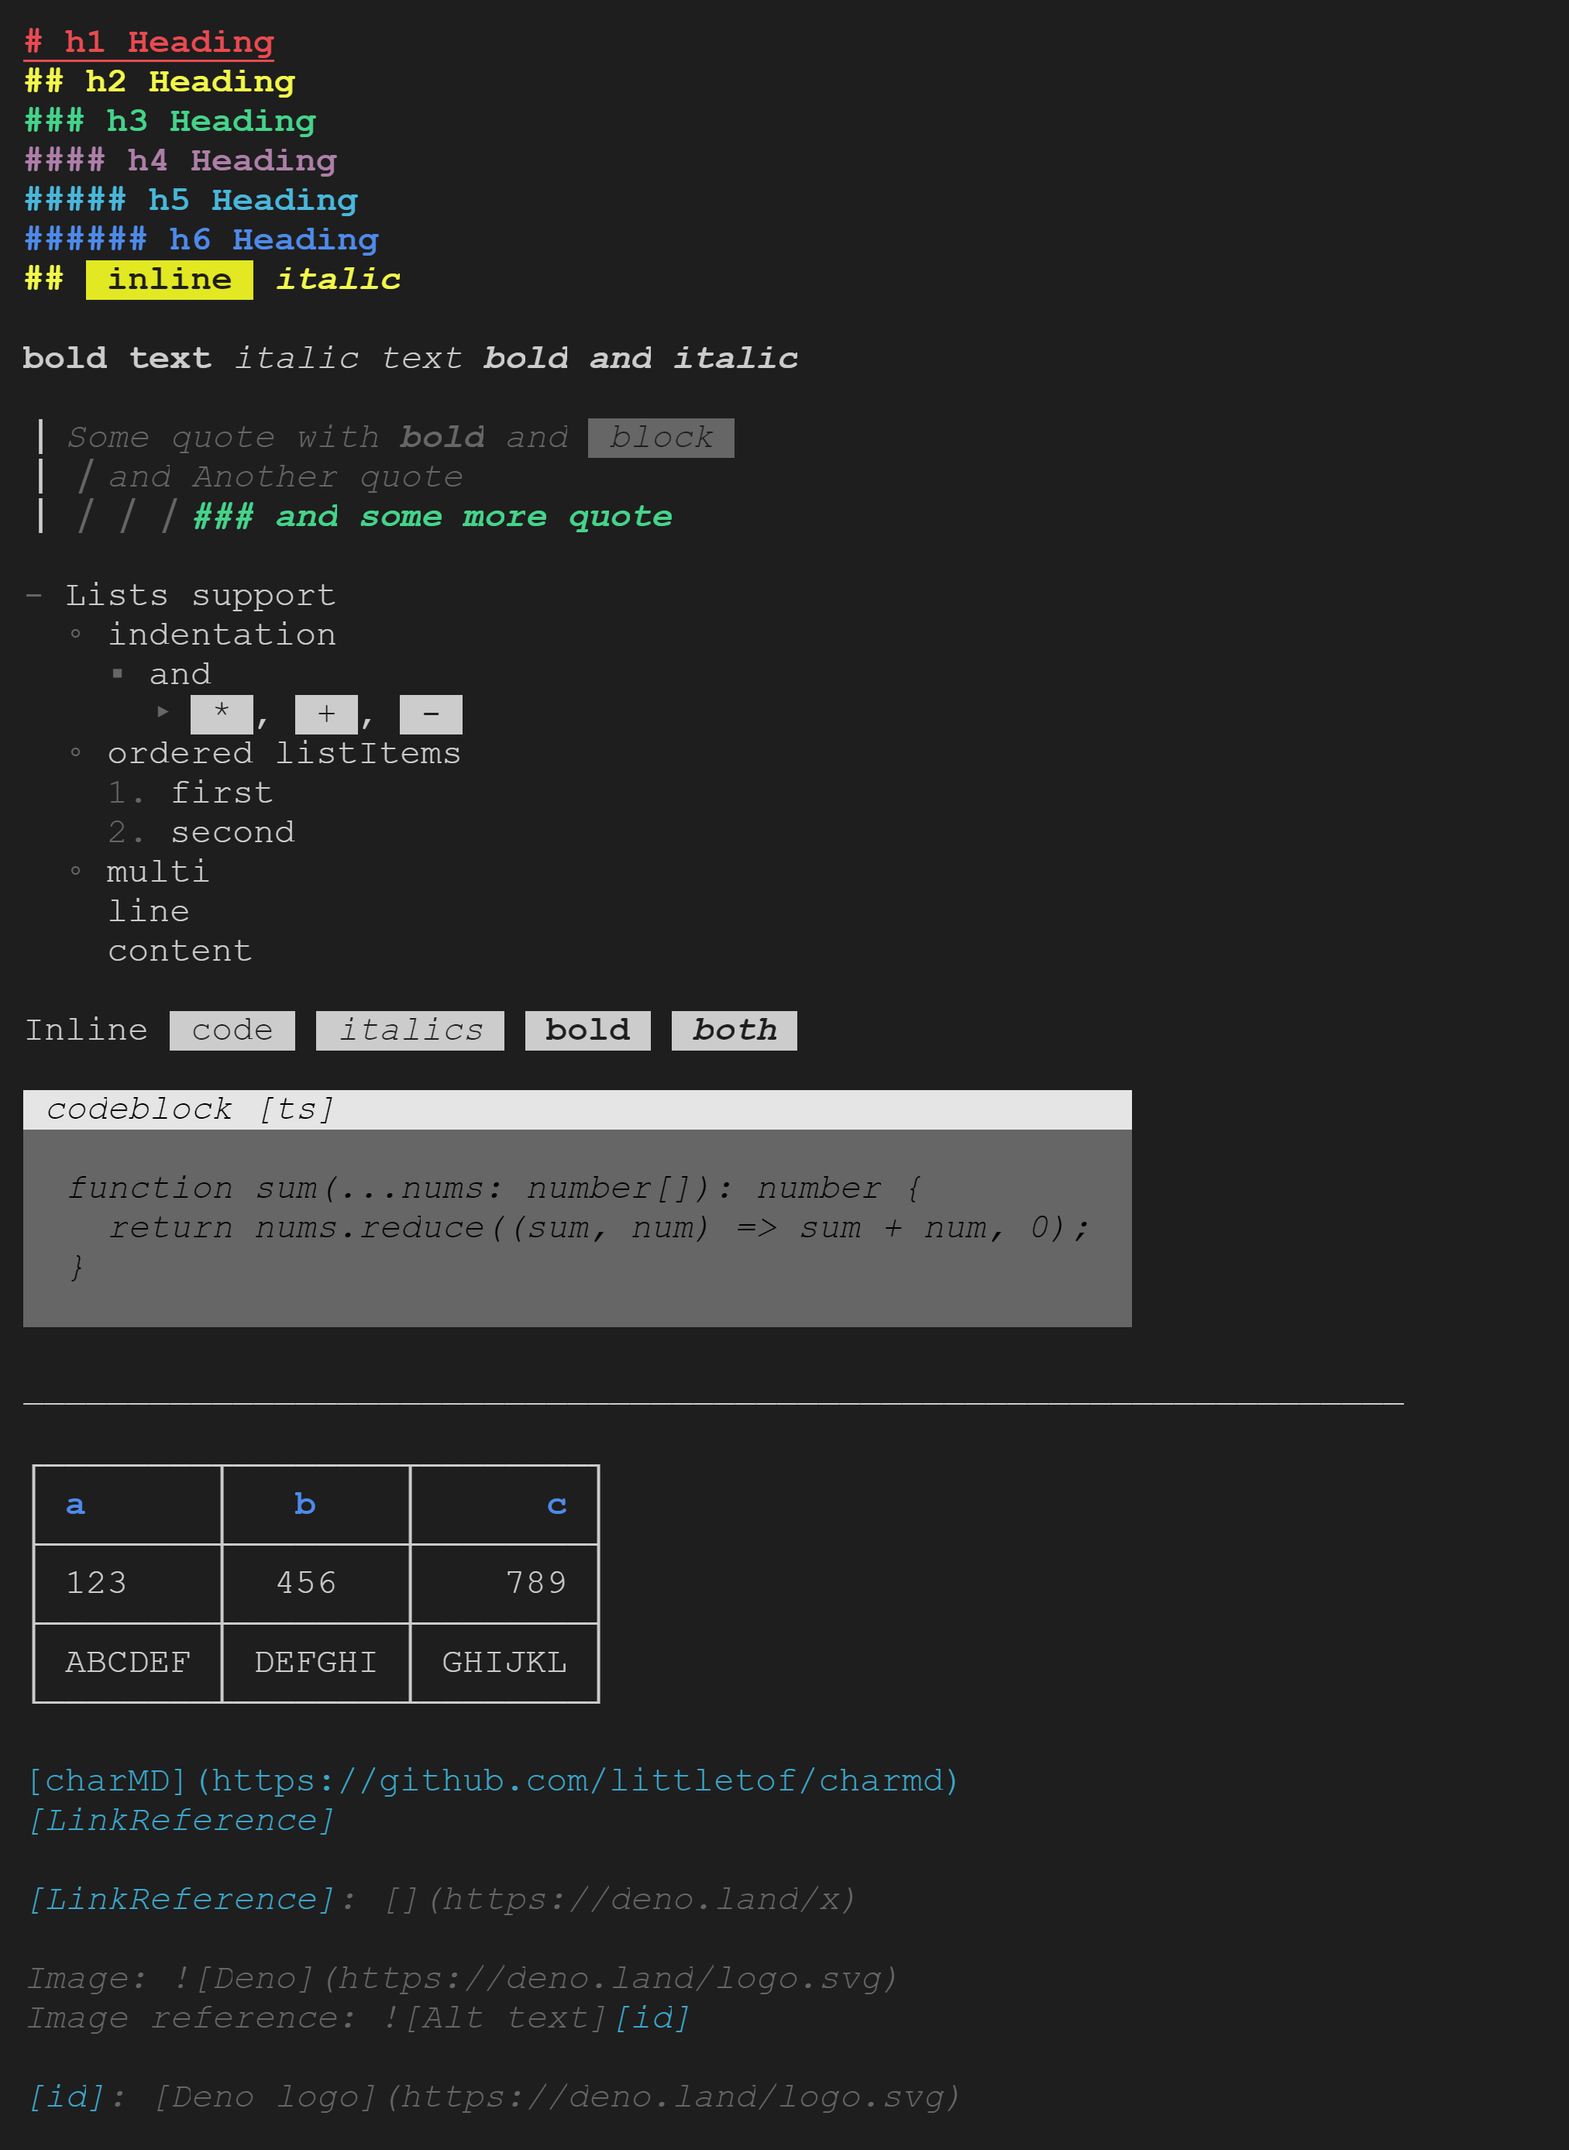
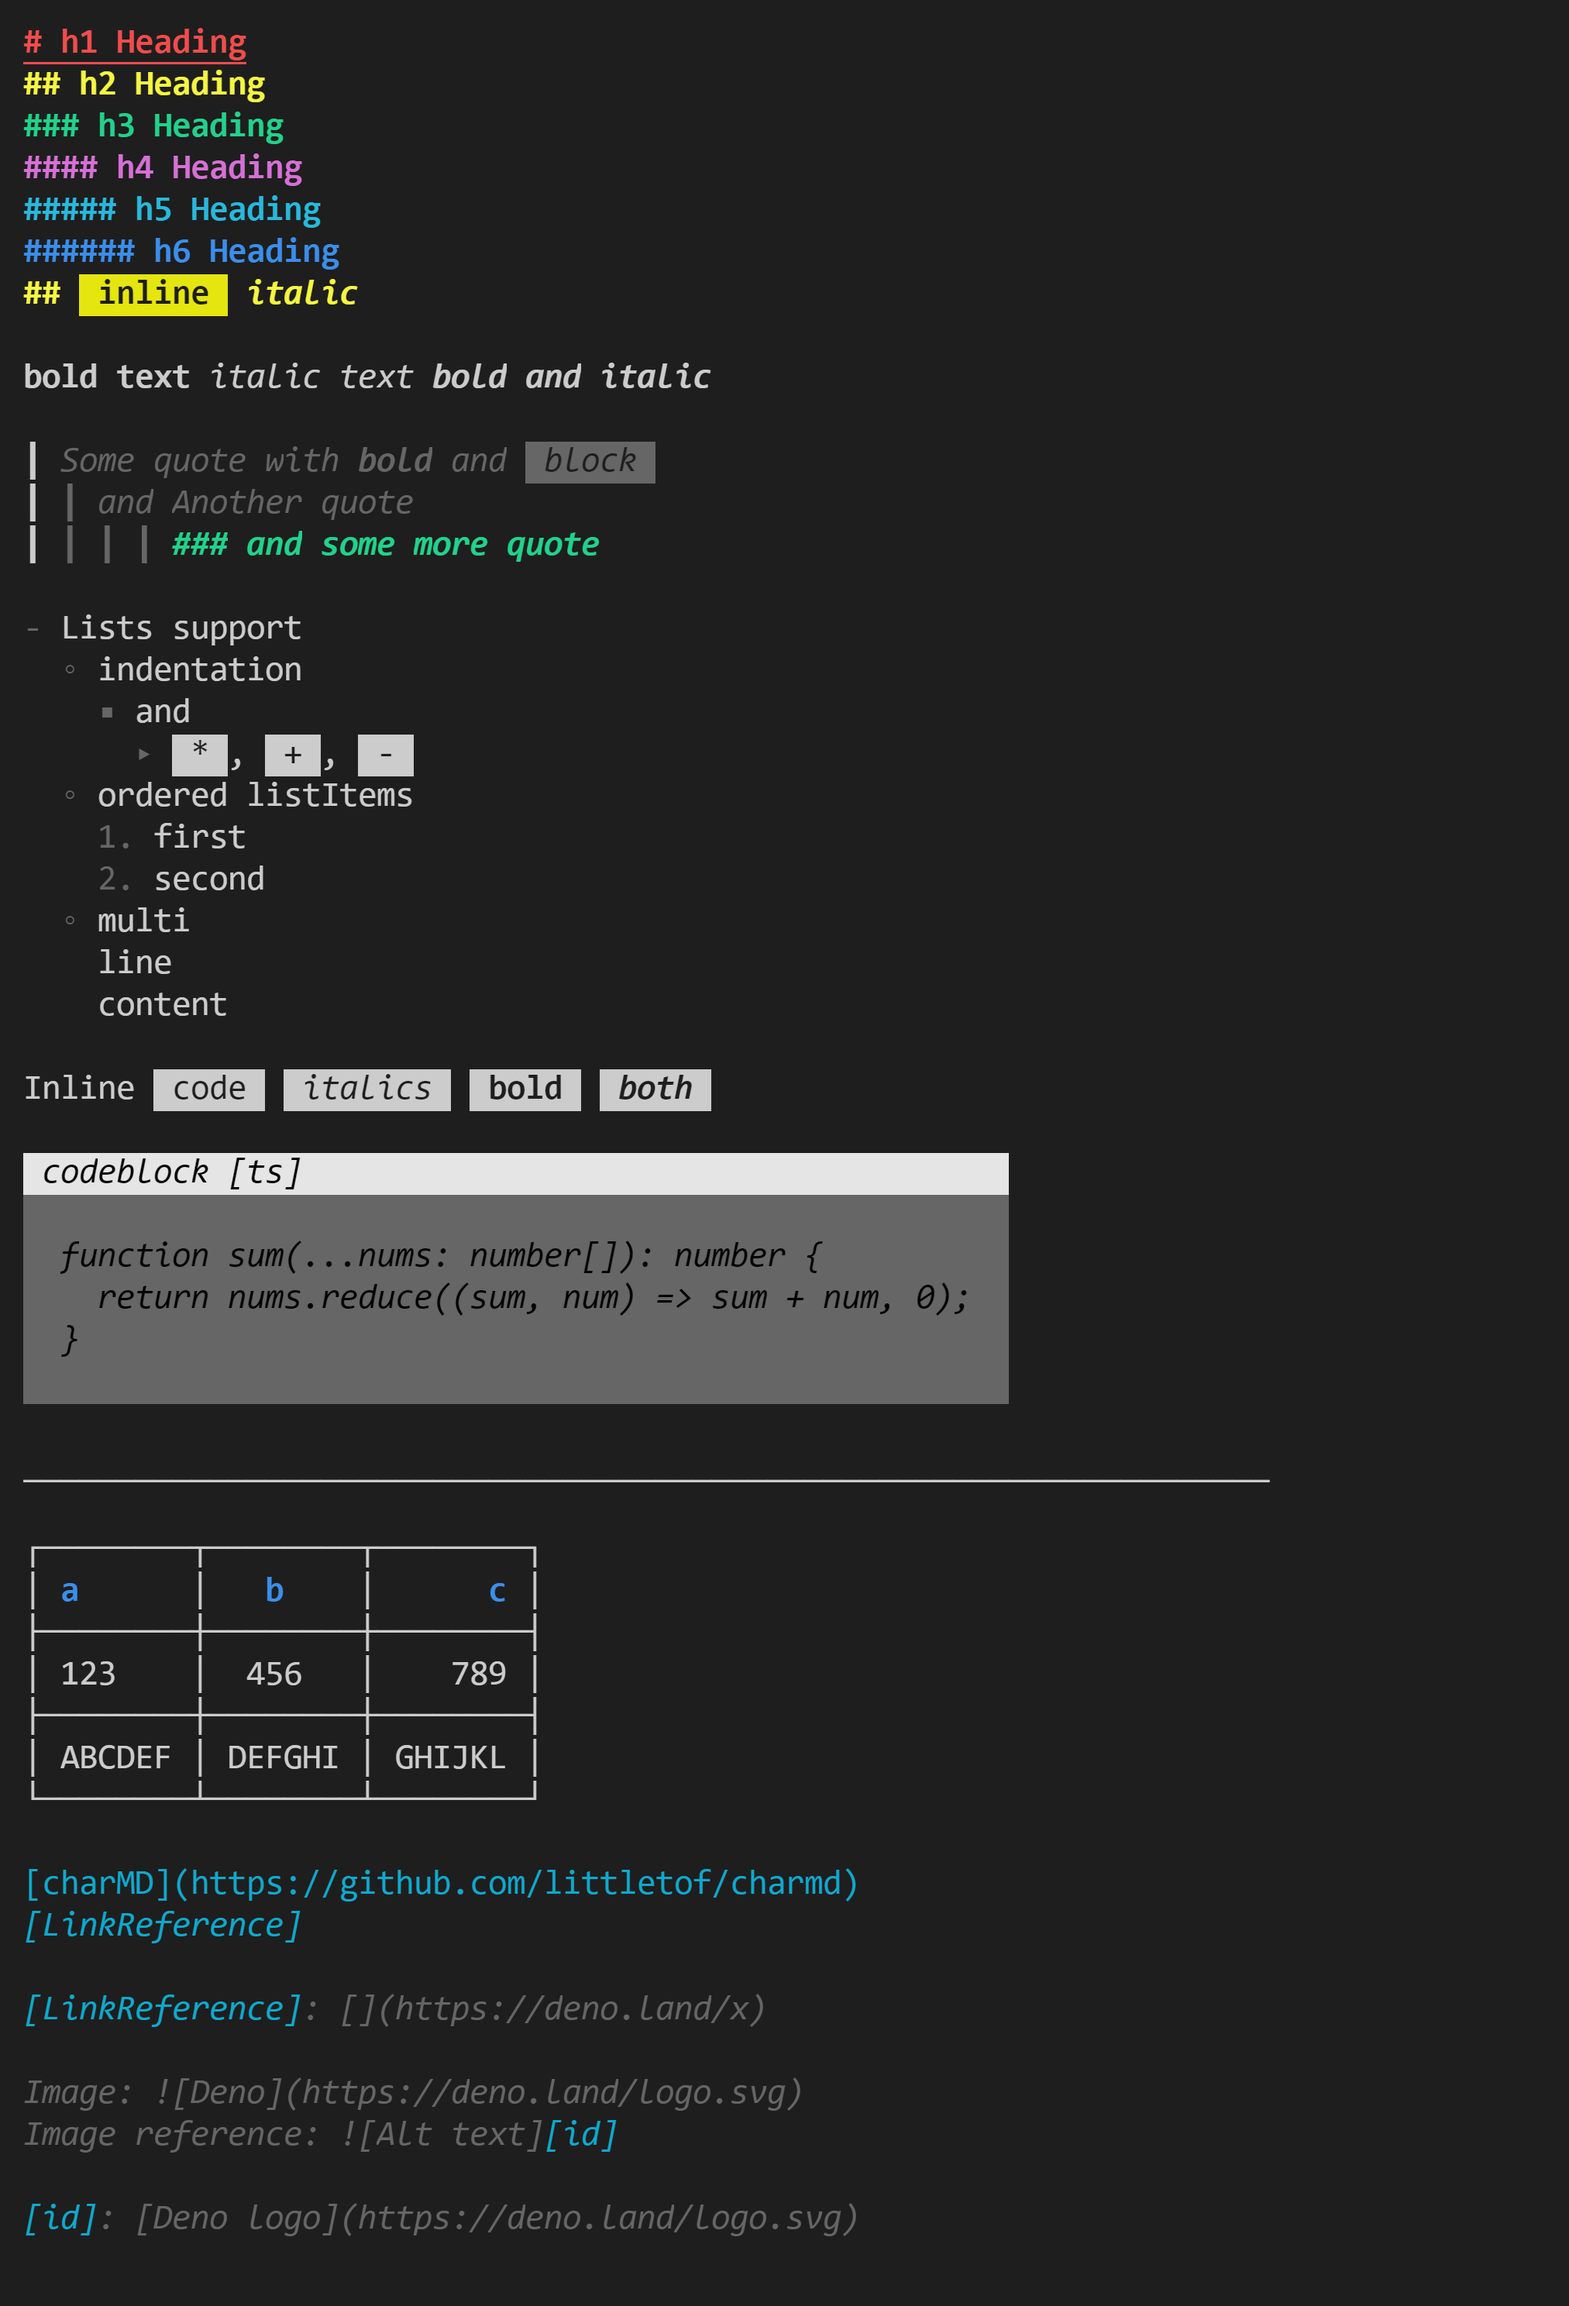
docs: Update snapper

Changed region(s): [[0.0, 0.0, 0.7467, 0.6198], [0.0, 0.6508, 0.56, 0.9917]]

diff --git a/docs/snapper.ts b/docs/snapper.ts
@@ -1,4 +1,4 @@
-import {snap} from 'https://deno.land/x/snapper@v0.0.3/mod.ts';
+import {snap} from 'https://deno.land/x/snapper@v0.0.5/mod.ts';
 import { renderMarkdown } from "../mod.ts";
 
 // Usage:
@@ -12,5 +12,5 @@ r = r.replace(/\n\n/, "\n").replace(/\n\n/, "\n").replace(/\n\n/, "\n").replace(
 
 
 await snap([
-    {content: r, imageSavePath: 'docs/showcase.png', viewport: {width: 675, height: 925}}
+    {content: r, imageSavePath: 'docs/showcase.png', viewport: {width: 675}}
 ]);

diff --git a/README.md b/README.md
@@ -1,6 +1,7 @@
 # 🎩 charMD
 
 [![deno badge](https://img.shields.io/badge/deno.land/x-success?logo=deno&logoColor=black&labelColor=white&color=black)](https://deno.land/x/charmd)
+[![snapper_deno](https://img.shields.io/badge/-snapper%20%F0%9F%93%B7-%230DBC79)](https://github.com/littletof/snapper)
 
 *A simple, extendable markdown renderer for your terminal.*
 
